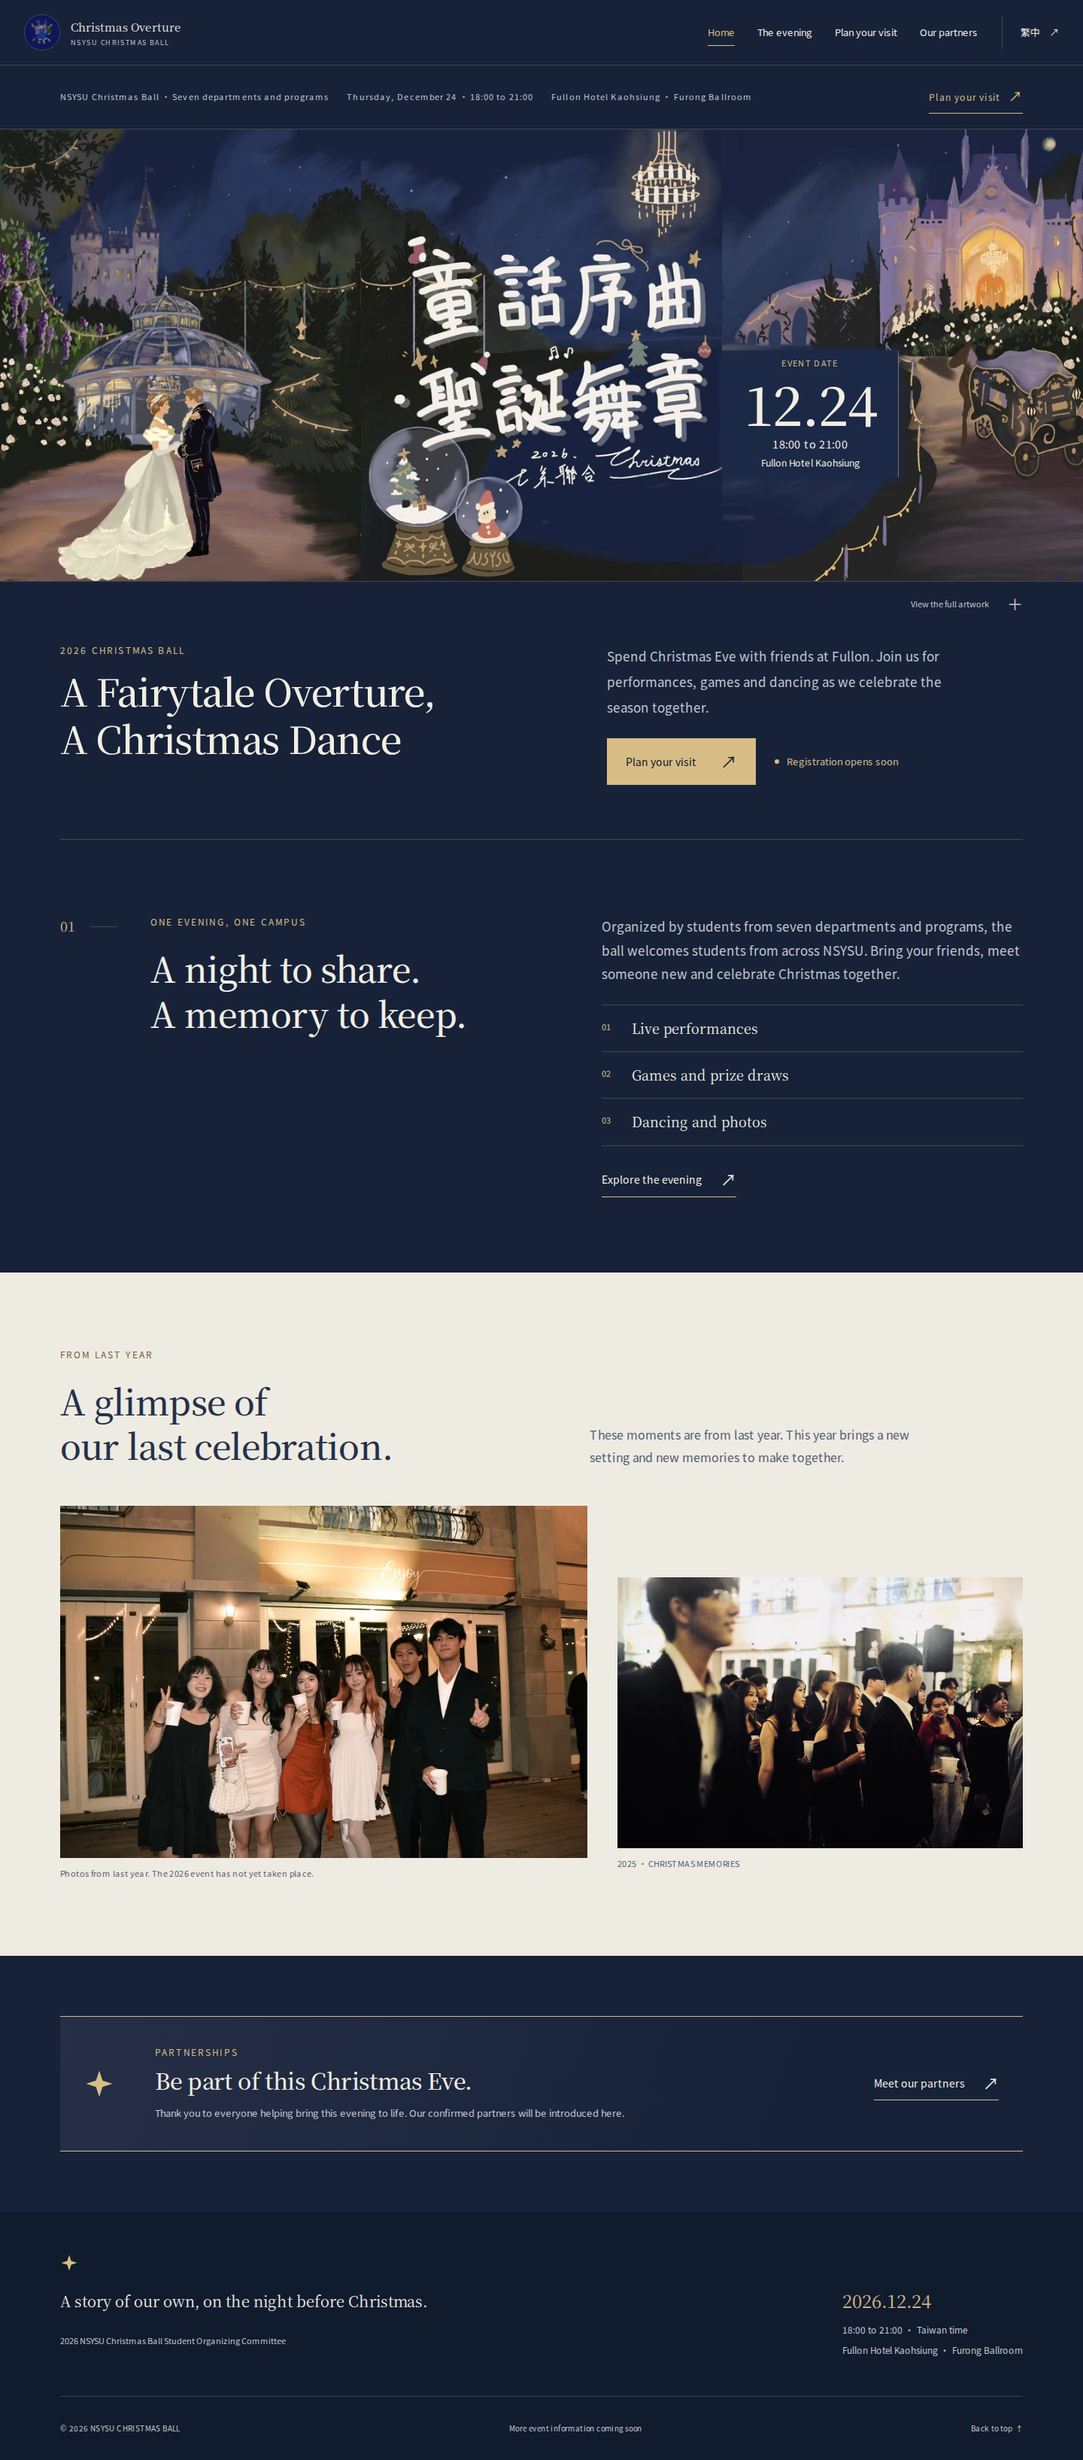
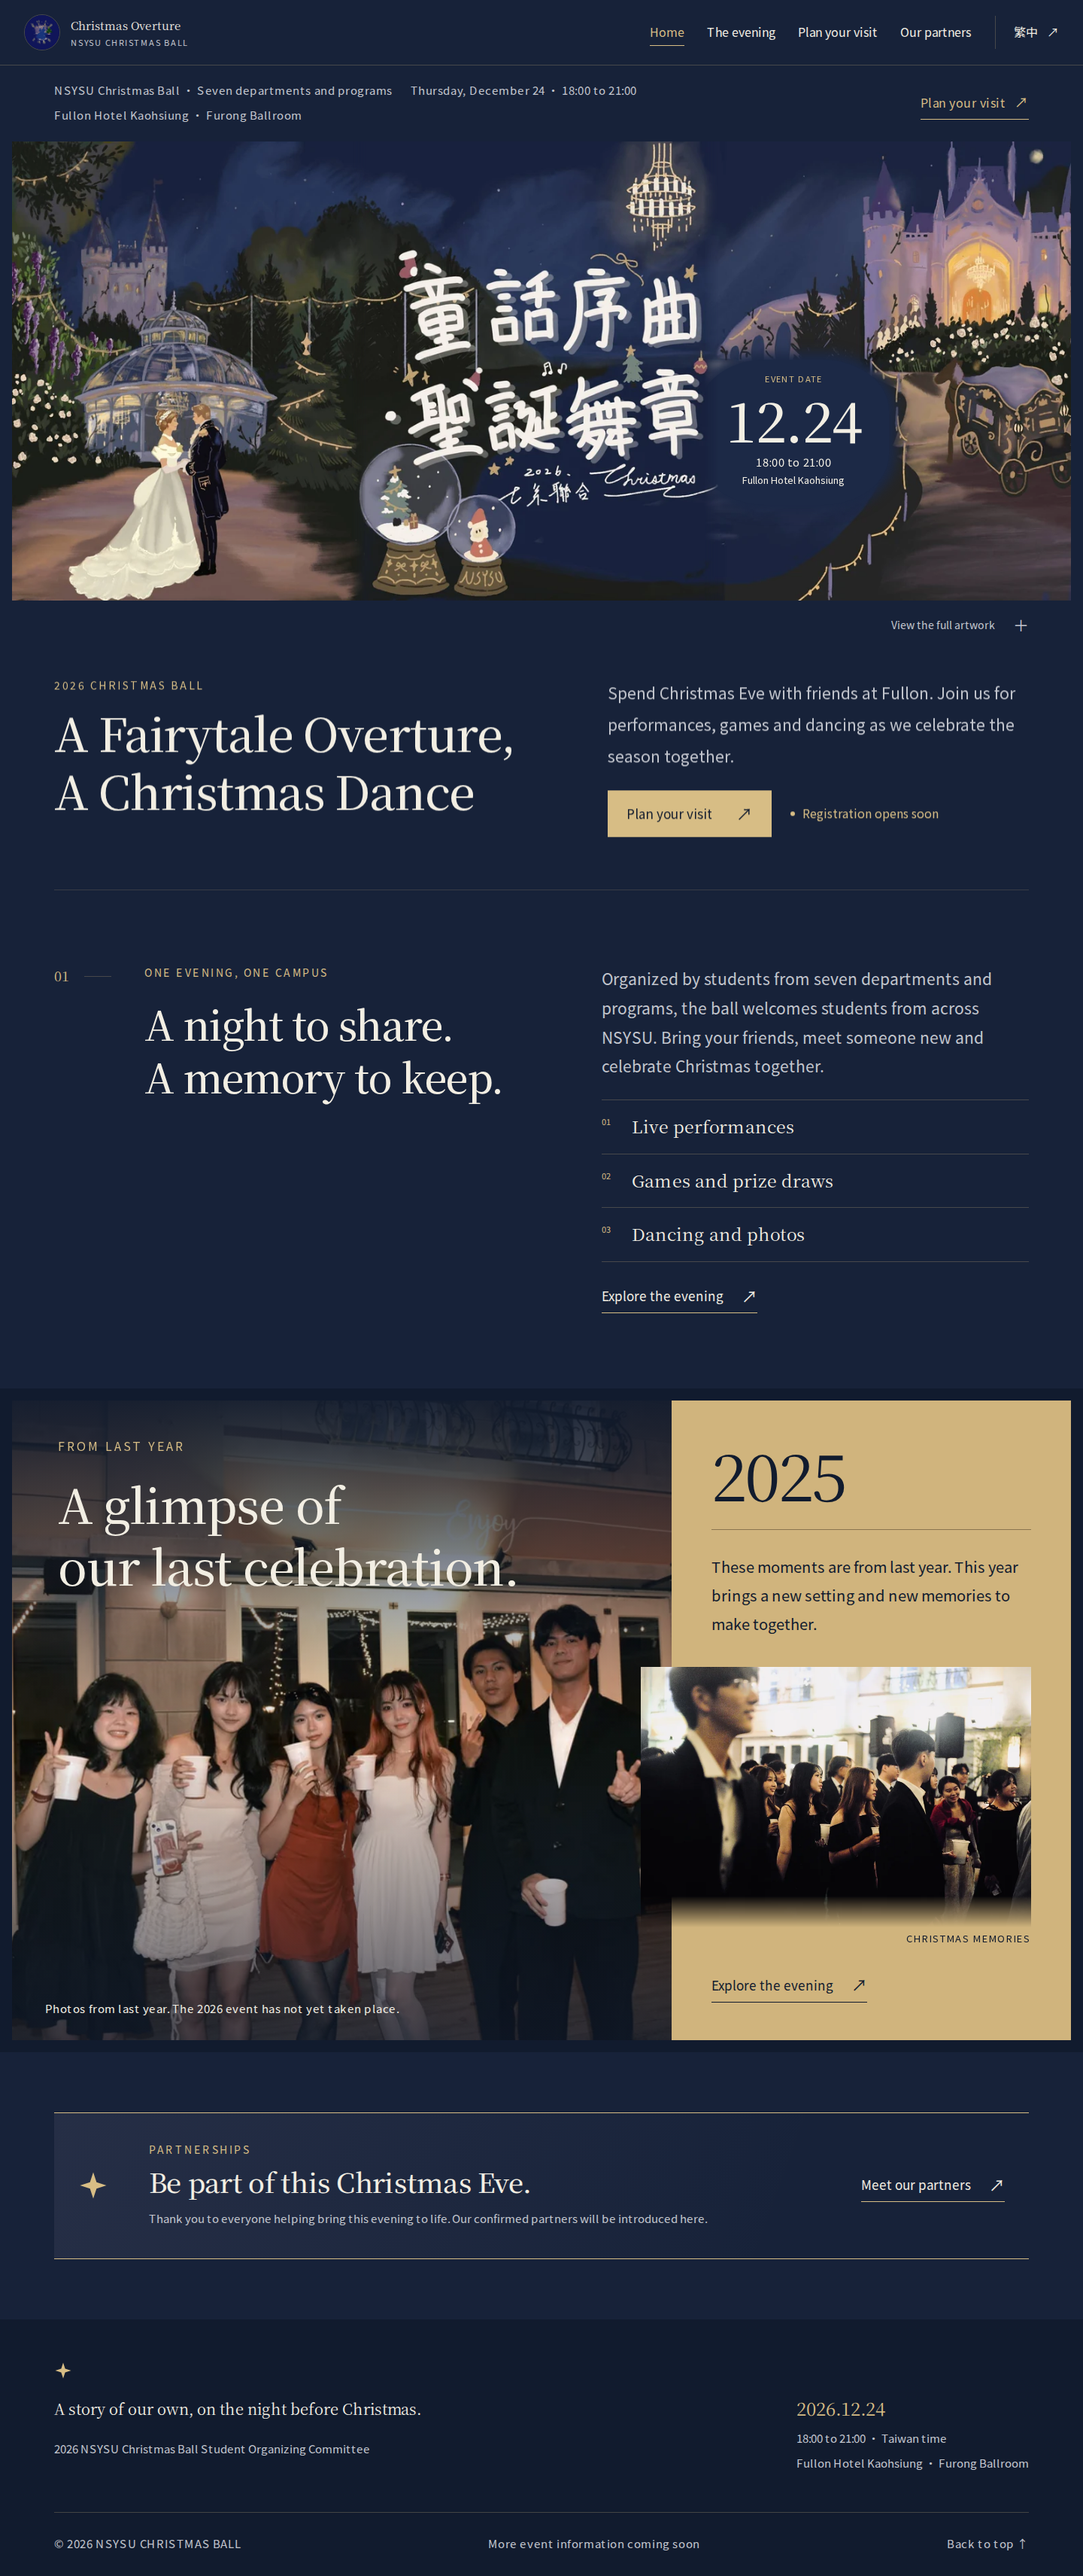
Refine immersive artwork, readable typography and editorial photo gallery (#2)

diff --git a/public/style.css b/public/style.css
@@ -226,3 +226,76 @@ html:lang(en) .art-date-venue{font-size:2.6cqw}
  .hero-quicklink{display:flex;align-items:center;justify-content:space-between;gap:8px;min-height:44px;flex:0 0 108px;color:var(--gold);font-size:12px;line-height:1.5;border-bottom:1px solid var(--gold)}
  .hero-quicklink>span{font-size:18px}
 }
+
+/* Editorial scale and immersive artwork. Keep the illustrated palette. */
+body{font-size:18px}
+.wrap{width:min(1600px,calc(100% - var(--space)*2))}
+.nav-shell{width:calc(100% - 64px);max-width:1800px}
+.site-nav a,.language-switch{font-size:16px}
+.brand small{font-size:11px}
+.eyebrow{font-size:14px}
+.text-link,.button{font-size:17px}
+.button{min-height:58px}
+.hero-topline{font-size:15px;letter-spacing:.035em}
+.hero-quicklink{font-size:16px}
+.panorama-shell{max-width:none;width:calc(100% - 32px);border:0}
+.panorama{isolation:isolate}
+.art-panel:not(:first-child){width:104%;margin-left:-4%;mask-image:linear-gradient(to right,transparent,#000 4%)}
+.art-panel>img{height:100%;aspect-ratio:4/5;object-fit:fill}
+.art-date{border:0;box-shadow:none;background:none;isolation:isolate;left:1%;width:47%}
+.art-date::before{content:'';position:absolute;inset:-5% -5% -8%;z-index:-1;background:#1c2946;box-shadow:0 0 3cqw 2cqw #1c2946;border-radius:35%}
+.art-open{font-size:14px;min-height:44px}
+.hero-caption{padding-block:45px 70px}
+.hero-caption h1{font-size:clamp(48px,4.6vw,88px)}
+html:lang(en) .hero-caption h1{font-size:clamp(44px,4.3vw,78px)}
+.hero-copy>p,.invitation-copy>p,.intro-copy{font-size:21px}
+h2{font-size:clamp(36px,3.7vw,62px)}
+.feature-list li{font-size:23px}
+.status{font-size:16px}
+.section-heading h2{font-size:30px}
+.program-list p,.partnership-detail p,.partners-empty p,.partner-card p,.faq details>p{font-size:18px}
+.program-name h3,.partnership-detail h3{font-size:28px}
+.faq summary{font-size:20px}
+.fine-print,figcaption,.footer-brand>span,.footer-info,.footer-bottom,.organizers li,.partnership-band p:not(.eyebrow){font-size:15px}
+.event-details dt,.ticket-heading,.ticket-bottom,.program-name>span{font-size:14px}
+.event-details dd{font-size:25px}
+.location .address{font-size:18px}
+.partnership-band h2{font-size:36px}
+/* A single gallery composition rather than a row of photo cards. */
+.archive{background:var(--deep);color:var(--ink);padding:16px}
+.archive-scene{display:grid;grid-template-columns:1.65fr 1fr;position:relative;isolation:isolate}
+.archive-large{grid-column:1;grid-row:1;position:relative;min-height:760px;overflow:hidden}
+.archive-large img{width:100%;height:100%;object-fit:cover;object-position:center;position:absolute;inset:0}
+.archive-large::after{content:'';position:absolute;inset:0;background:linear-gradient(180deg,rgba(17,27,46,.95),rgba(17,27,46,.6) 22%,transparent 53%,rgba(17,27,46,.7))}
+.archive-large figcaption{position:absolute;bottom:28px;left:5%;right:5%;color:var(--ink);z-index:1;font-size:15px}
+.archive-top{grid-column:1;grid-row:1;z-index:1;align-self:start;display:block;margin:0;padding:48px 7%;pointer-events:none}
+.archive .eyebrow{color:var(--gold)}
+.archive-top h2{font-size:clamp(42px,4.4vw,80px);line-height:1.4}
+.archive-aside{grid-column:2;grid-row:1;align-self:stretch;background:#d0b47d;color:var(--deep);padding:50px 10%;display:flex;flex-direction:column;justify-content:center;gap:30px}
+.archive-year{font-family:var(--serif);font-size:clamp(50px,6vw,100px);line-height:1.1;letter-spacing:-.04em;border-bottom:1px solid #8b754f;padding-bottom:26px}
+.archive-aside>p{font-size:20px;line-height:1.9}
+.archive-small{width:calc(100% + 22%);margin:8px 0 0 -22%;position:relative;z-index:2}
+.archive-small img{width:100%;aspect-ratio:1.5;object-fit:cover;mask-image:linear-gradient(180deg,#000 88%,transparent)}
+.archive-small figcaption{color:var(--deep);font-size:13px;margin-top:4px;letter-spacing:.13em;text-align:right}
+.archive-aside .text-link{align-self:flex-start;border-color:var(--deep)}
+.archive-aside .text-link:hover{color:var(--deep)}
+.button>span,.text-link>span{transition:transform .25s ease}
+.button:hover>span,.text-link:hover>span{transform:translate(3px,-3px)}
+.archive-large img{transition:transform 1.2s cubic-bezier(.2,.65,.3,1)}
+.archive-large:hover img{transform:scale(1.025)}
+@keyframes gallery-arrival{from{transform:translateY(18px)}to{transform:translateY(0)}}
+.motion-arrive{animation:gallery-arrival .8s cubic-bezier(.2,.65,.3,1) both}
+@media(max-width:1100px){.nav-shell{gap:16px}.site-nav{gap:16px}.site-nav a{font-size:14px}.hero-facts{gap:4px 18px}.archive-large{min-height:680px}.archive-aside{padding:36px 9%}.archive-aside>p{font-size:18px}.archive-top{padding-top:36px}}
+@media(max-width:800px){
+ .nav-shell{width:calc(100% - 32px)}.brand small{font-size:9px}.site-nav a{font-size:17px}.hero-facts{font-size:13px}.hero-quicklink{font-size:14px;flex-basis:110px}.hero-topline{gap:16px}.hero-caption h1,html:lang(en) .hero-caption h1{font-size:48px}.hero-copy>p,.invitation-copy>p,.intro-copy{font-size:19px}
+ .archive-scene{grid-template-columns:1.25fr 1fr}.archive-top h2{font-size:40px}.archive-large{min-height:680px}.archive-aside{padding:30px 9%;gap:24px}.archive-aside>p{font-size:17px}.archive-year{font-size:64px}
+}
+@media(max-width:700px){
+ body{font-size:17px}.panorama-shell{width:calc(100% - 16px)}.hero-topline{width:calc(100% - 32px)}.hero-facts{font-size:12px}.hero-quicklink{font-size:13px;flex-basis:100px}.hero-caption h1{font-size:42px}html:lang(en) .hero-caption h1{font-size:42px}.hero-copy>p{font-size:18px}.hero-actions .status{font-size:15px}.art-hint{font-size:13px}.art-open{font-size:13px}
+ h2,.archive-top h2{font-size:36px}.feature-list li{font-size:21px}.eyebrow{font-size:13px}.page-intro .intro-copy{font-size:18px}.program-list p,.faq details>p,.partnership-detail p{font-size:17px}.program-name h3{font-size:23px}.faq summary{font-size:18px}.event-details dd{font-size:22px}.ticket-heading{font-size:11px}
+ .archive{padding:8px}.archive-scene{grid-template-columns:1fr}.archive-large{grid-column:1;grid-row:1;min-height:540px}.archive-top{padding:28px 24px}.archive-top h2{font-size:38px}.archive-top .eyebrow{margin-bottom:12px}.archive-large img{object-position:48% center}.archive-large::after{background:linear-gradient(180deg,rgba(17,27,46,.95),rgba(17,27,46,.5) 26%,transparent 55%,rgba(17,27,46,.65))}.archive-large figcaption{bottom:20px;font-size:13px}
+ .archive-aside{grid-column:1;grid-row:2;padding:32px 24px;gap:24px}.archive-year{font-size:62px}.archive-aside>p{font-size:18px}.archive-small{width:100%;margin:0}.archive-small figcaption{font-size:12px}.partnership-band h2{font-size:30px}.footer-bottom{font-size:12px}.footer-brand>span{font-size:14px}
+}
+@media(prefers-reduced-motion:reduce){.archive-large:hover img{transform:none}.motion-arrive{animation:none}.button:hover>span,.text-link:hover>span{transform:none}}
+
+@media(max-width:700px){.hero-quicklink{flex-basis:116px;white-space:nowrap}}

diff --git a/public/app.js b/public/app.js
@@ -19,6 +19,17 @@
   const mobile = matchMedia('(max-width: 800px)');
   mobile.addEventListener('change',()=>closeMenu());
 
+  // Content stays readable without JavaScript. Animate only the first entrance.
+  const motionPreference = matchMedia('(prefers-reduced-motion: reduce)');
+  if ('IntersectionObserver' in window) {
+    const observer = new IntersectionObserver(entries => {
+      for (const entry of entries) if (entry.isIntersecting) {
+        if (!motionPreference.matches) entry.target.classList.add('motion-arrive');
+        observer.unobserve(entry.target);
+      }
+    }, {threshold: .12});
+    document.querySelectorAll('.hero-caption,.archive-aside').forEach(el => observer.observe(el));
+  }
   const scroller = document.querySelector('.panorama-scroll');
   const dialog = document.querySelector('.art-dialog');
   if(scroller) {
@@ -26,7 +37,12 @@
     const artMobile = matchMedia('(max-width: 700px)');
     let artInteracted = false;
     scroller.addEventListener('pointerdown',()=>{artInteracted = true;},{once:true});
-    const center = () => {scroller.scrollTo({left:artMobile.matches ? (scroller.scrollWidth-scroller.clientWidth)/2 : 0,behavior:'instant'});};
+    const center = () => {
+      const middle = scroller.querySelectorAll('.art-panel')[1];
+      const left = middle.getBoundingClientRect().left - scroller.getBoundingClientRect().left + scroller.scrollLeft + (middle.clientWidth - scroller.clientWidth)/2;
+      scroller.scrollTo({left:artMobile.matches ? left : 0,behavior:'instant'});
+    };
+    document.fonts.ready.then(()=>{if(!artInteracted) requestAnimationFrame(center);});
     requestAnimationFrame(center);
     window.addEventListener('load',()=>{if(!artInteracted) center();},{once:true});
     artMobile.addEventListener('change',center);

diff --git a/docs/QA.md b/docs/QA.md
@@ -40,3 +40,9 @@
 報名服務、官方 IG 與品牌外連尚未提供，沒有可測試的真實報名流程。外部地圖連到飯店名稱搜尋，飯店交通連結使用官方網站，不承諾外部服務狀態。
 
 歷屆照片不表示本屆成果。舞台節目、報到規則、費用與正式品牌名單仍依團隊後續公告。
+
+## 2026 年 10 月 21 日視覺調整
+
+依 UI/UX Pro Max 的可讀性、觸控目標與減少動態效果指引調整。主視覺在桌機左右各留 16px，手機各留 8px。插畫以 CSS 重疊遮罩柔化接縫，日期底色改為柔邊。內文提升至 18 至 21px，照片區改成大幅影像、深藍漸層與暖金側欄。只為標題區和照片側欄加入一次進場位移，無 JavaScript 時內容仍然可見。
+
+47 項瀏覽器測試通過，涵蓋中英文四頁、375／390／768／1440px、1920／2560px 主視覺寬度、鍵盤操作、減少動態與無障礙掃描。檢視桌機與手機實際截圖。測試使用 Chromium 模擬視窗，未宣稱實體手機或 Safari 驗證。
